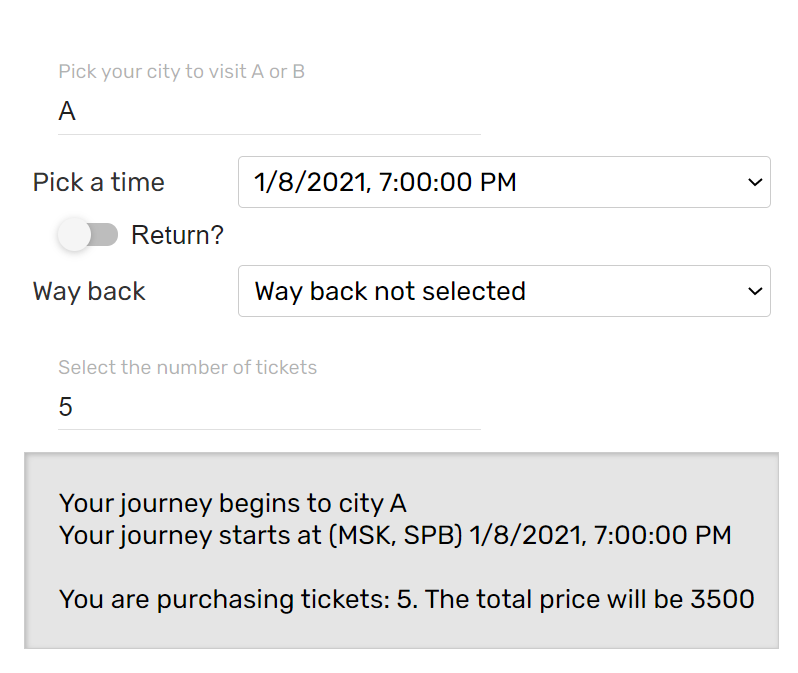
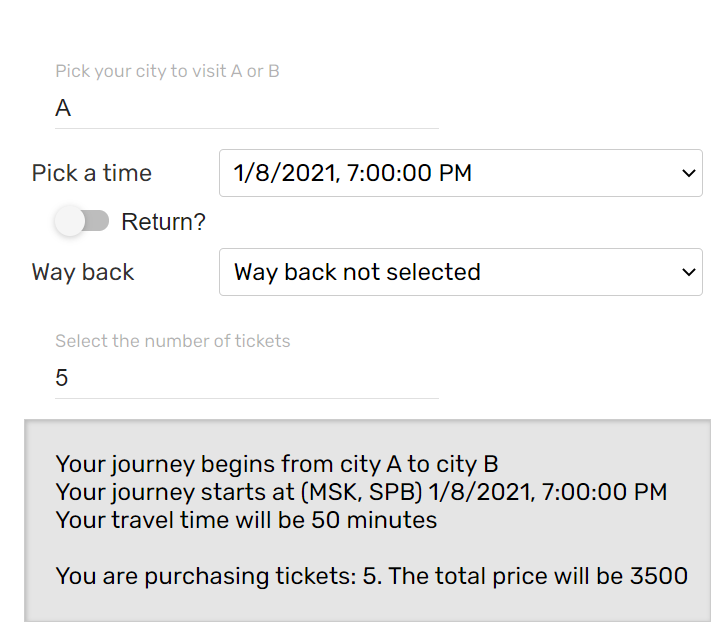
time filter fixed. readme added. time travel calculation

diff --git a/src/Components/Forms/NewForm.jsx b/src/Components/Forms/NewForm.jsx
@@ -1,6 +1,6 @@
 import React from 'react'
 import Styles from './Styles'
-import { Form, Field } from 'react-final-form'
+import {Form, Field} from 'react-final-form'
 import MuiThemeProvider from 'material-ui/styles/MuiThemeProvider'
 import getMuiTheme from 'material-ui/styles/getMuiTheme'
 import TextField from 'material-ui/TextField'
@@ -9,7 +9,7 @@ import Toggle from 'material-ui/Toggle'
 
 const NewForm = (props) => {
 
-    const TextFieldAdapter = ({ input, meta, ...rest }) => (
+    const TextFieldAdapter = ({input, meta, ...rest}) => (
         <TextField
             {...input}
             {...rest}
@@ -18,7 +18,7 @@ const NewForm = (props) => {
         />
     )
 
-    const ToggleAdapter = ({ input: { onChange, value }, label, ...rest }) => (
+    const ToggleAdapter = ({input: {onChange, value}, label, ...rest}) => (
         <Toggle
             label={label}
             toggled={!!value}
@@ -29,8 +29,7 @@ const NewForm = (props) => {
     const sleep = ms => new Promise(resolve => setTimeout(resolve, ms))
 
     const onSubmit = async values => {
-        await sleep(300)
-        window.alert(JSON.stringify(values, 0, 2))
+        alert("hi")
 
     }
 
@@ -48,9 +47,6 @@ const NewForm = (props) => {
         validators.reduce((error, validator) => error || validator(value), undefined)
 
 
-
-
-
     let updateCity = (value) => {
         props.updateCityToVisitAC(value)
     }
@@ -58,7 +54,6 @@ const NewForm = (props) => {
     let updateNumberOfTickets = (value) => {
         props.updateNumberOfTicketsAC(value)
     }
-
 
 
     let updateTime = (value) => {
@@ -78,11 +73,13 @@ const NewForm = (props) => {
             <Styles>
                 <Form
                     onSubmit={onSubmit}
-                    render={({ handleSubmit,
+                    render={({
+                                 handleSubmit,
                                  form,
                                  submitting,
                                  pristine,
-                                 values }) => (
+                                 values
+                             }) => (
                         <form onSubmit={handleSubmit}>
                             <div>
                                 <Field
@@ -102,7 +99,7 @@ const NewForm = (props) => {
                                 >
                                     {
 
-                                        props.getRoutesSuperSelector.map ( r =>
+                                        props.getRoutesSuperSelector.map(r =>
                                             <option
                                                 key={r}
                                                 value={r.toLocaleString()}>{r.toLocaleString()}
@@ -128,7 +125,7 @@ const NewForm = (props) => {
                                     validate={timeWayBack}
                                 >
                                     {
-                                        props.getWayBackSuperSelector.map ( r =>
+                                        props.getWayBackSuperSelector.map(r =>
                                             <option
                                                 key={r}
                                                 value={r.toLocaleString()}>{r.toLocaleString()}
@@ -146,10 +143,13 @@ const NewForm = (props) => {
                                     floatingLabelText="Select the number of tickets"
                                 />
                             </div>
+
                             <pre>
                                 {props.picketCitySuperSelector}
                                 <br/>
                                 {props.picketTimeSuperSelector}
+                                <br/>
+                                {props.getTimeToWayBackSuperSelector}
                                 <br/>
                                 {props.picketTimeWayBackSuperSelector}
                                 <br/>

diff --git a/src/Redux/Ticket-selector.js b/src/Redux/Ticket-selector.js
@@ -20,6 +20,29 @@ export const getRoutesSuperSelector = createSelector(
     }
 )
 
+export const getTimeToWayBackSuperSelector = createSelector(
+    getRoutesSelector,
+    (state) => {
+        if (state.TicketPage.datePicked.timeToVisit !== null && state.TicketPage.datePicked.timeToWayBack !== null) {
+            let visitTime = new Date(state.TicketPage.datePicked.timeToVisit)
+            let visitHours = visitTime.getHours()
+            let visitMinutes = visitTime.getMinutes()
+
+            let visitBackTime = new Date(state.TicketPage.datePicked.timeToWayBack)
+            let visitBackHours = visitBackTime.getHours()
+            let visitBackMinutes = visitBackTime.getMinutes()
+
+            return ("Your travel time will be " + (visitBackHours - visitHours) + " hours and " + (visitBackMinutes - visitMinutes) + " minutes")
+        }
+        if (state.TicketPage.datePicked.timeToVisit !== null ) {
+            return ("Your travel time will be 50 minutes" )
+        }
+    }
+)
+
+
+
+
 
 export const getWayBackSuperSelector = createSelector(
     getRoutesSelector,
@@ -29,12 +52,16 @@ export const getWayBackSuperSelector = createSelector(
         }
         if (state.TicketPage.datePicked.returnVisit === true) {
             if(state.TicketPage.datePicked.cityToVisit === "A"){
+                let newTimeToVisit = new Date(state.TicketPage.datePicked.timeToVisit)
+                newTimeToVisit.setMinutes(newTimeToVisit.getMinutes() + 50)
                 return state.TicketPage.travelRoutes.trace3.filter (t =>
-                    (t.toLocaleString() > state.TicketPage.datePicked.timeToVisit))
+                    (t > newTimeToVisit))
             }
             if(state.TicketPage.datePicked.cityToVisit === "B"){
+                let newTimeToVisit = new Date(state.TicketPage.datePicked.timeToVisit)
+                newTimeToVisit.setMinutes(newTimeToVisit.getMinutes() + 50)
                 return state.TicketPage.travelRoutes.trace2.filter (t =>
-                    (t.toLocaleString() > state.TicketPage.datePicked.timeToVisit))
+                    (t > newTimeToVisit))
             }
         }
     }
@@ -47,10 +74,10 @@ export const picketCitySuperSelector = createSelector(
             return ""
         }
         if (state.TicketPage.datePicked.cityToVisit === "A") {
-            return ("Your journey begins to city A")
+            return ("Your journey begins from city A to city B")
         }
         if (state.TicketPage.datePicked.cityToVisit === "B") {
-            return ("Your journey begins to city B")
+            return ("Your journey begins from city B to city A")
         }
 }
 )

diff --git a/src/Components/ShopContainer.jsx b/src/Components/ShopContainer.jsx
@@ -11,7 +11,7 @@ import Shop from "./Shop";
 import connect from "react-redux/lib/connect/connect";
 import "./../Style/style.css"
 import {
-    getRoutesSuperSelector,
+    getRoutesSuperSelector, getTimeToWayBackSuperSelector,
     getWayBackSuperSelector,
     picketCitySuperSelector, picketNumberOfTicketsSuperSelector,
     picketTimeSuperSelector,
@@ -23,7 +23,7 @@ import {
 class ShopContainer extends React.Component {
 
     componentDidMount() {
-        this.props.getAddress()
+        //this.props.getAddress()
     }
 
     render() {
@@ -41,6 +41,7 @@ class ShopContainer extends React.Component {
                 picketTimeSuperSelector={this.props.picketTimeSuperSelector}
                 picketTimeWayBackSuperSelector={this.props.picketTimeWayBackSuperSelector}
                 picketNumberOfTicketsSuperSelector={this.props.picketNumberOfTicketsSuperSelector}
+                getTimeToWayBackSuperSelector={this.props.getTimeToWayBackSuperSelector}
                 country={this.props.country}
                 city={this.props.city}
                 provider={this.props.provider}
@@ -69,7 +70,8 @@ let mapStateToProps = (state) => {
         picketCitySuperSelector: picketCitySuperSelector(state),
         picketTimeSuperSelector: picketTimeSuperSelector(state),
         picketTimeWayBackSuperSelector: picketTimeWayBackSuperSelector(state),
-        picketNumberOfTicketsSuperSelector: picketNumberOfTicketsSuperSelector(state)
+        picketNumberOfTicketsSuperSelector: picketNumberOfTicketsSuperSelector(state),
+        getTimeToWayBackSuperSelector: getTimeToWayBackSuperSelector(state)
     }
 }
 

diff --git a/src/Redux/Ticket-reducer.js b/src/Redux/Ticket-reducer.js
@@ -38,7 +38,6 @@ let initialState = {
             "Your route not selected"
         ],
         trace2: [
-            new Date("01.08.2021 18:10"),
             new Date("01.08.2021 18:30"),
             new Date("01.08.2021 19:00"),
             new Date("01.08.2021 19:10"),
@@ -47,7 +46,11 @@ let initialState = {
             new Date("01.08.2021 20:05"),
             new Date("01.08.2021 20:10"),
             new Date("01.08.2021 20:30"),
-            new Date("01.08.2021 20:50")
+            new Date("01.08.2021 20:50"),
+            new Date("01.08.2021 21:20"),
+            new Date("01.08.2021 22:20"),
+            new Date("01.08.2021 22:40"),
+            new Date("01.08.2021 23:50")
         ],
         trace3: [
             new Date("01.08.2021 18:05"),
@@ -58,7 +61,10 @@ let initialState = {
             new Date("01.08.2021 19:50"),
             new Date("01.08.2021 20:00"),
             new Date("01.08.2021 20:20"),
-            new Date("01.08.2021 20:50")
+            new Date("01.08.2021 21:20"),
+            new Date("01.08.2021 22:20"),
+            new Date("01.08.2021 22:40"),
+            new Date("01.08.2021 23:50")
         ],
         trace4: [
             "Way back not selected"

diff --git a/src/Components/Shop.jsx b/src/Components/Shop.jsx
@@ -22,6 +22,7 @@ const Shop = (props) => {
                     picketTimeSuperSelector={props.picketTimeSuperSelector}
                     picketTimeWayBackSuperSelector={props.picketTimeWayBackSuperSelector}
                     picketNumberOfTicketsSuperSelector={props.picketNumberOfTicketsSuperSelector}
+                    getTimeToWayBackSuperSelector={props.getTimeToWayBackSuperSelector}
                     time={props.time}
                     cityToVisit={props.cityToVisit}
                     timeToVisit={props.timeToVisit}

diff --git a/README.md b/README.md
@@ -42,22 +42,19 @@
 ![img.png](src/Style/IMG/cityBPicked.png)
 
 #### VIII. Переключатель: "Return?". Отмечается, если нужен обратный билет. Повлияет на конечную цену билета.
-#### IX. После активации переключателя, появляется возможность выбрать время обратного пути не позднее даты отправления.
+#### IX. Время в пути составляет 50 минут. После выбора потребности в обратном билете, будут предложены даты с лагом в 50 минут
 
 ![img.png](src/Style/IMG/wayBackPicked.png)
+![img.png](src/Style/IMG/wayBackPicked1.png)
 
 #### X. Поле "Select the number of tickets" - выбор количества билетов. Имеет валидацию; только положительные натуральные числа
 #### XI. На сером фоне представлен результат выбора пользователя. Конечная цена будет зависеть от количества выбранных билетов и обратного билета
 
 ![img.png](src/Style/IMG/price1.png)
+#### XI. Время в пути одинаково в обе стороны и составит 50 минут. Если был выбран обратный билет, то отобразится полное время в пути
 ![img.png](src/Style/IMG/priceWithWayBack.png)
 
-#### XII. В файле /src/Redux/Ticket-selector в селекторе "getWayBackSuperSelector" сравнивается дата отплытия из одного пункта и выбирается дата убытия из второго. Данные в формате new Date(), прибавляя время в пути(например, 50 минут) можно сделать выборку обратного рейса позднее выбранной даты на 50 минут.
-
-
-#### XIII. Время в пути: state.TicketPage.datePicked.timeToVisit + state.TicketPage.datePicked.timeToWayBack + 50 минут - время в пути
-
-#### XIV. Местное время: state.TicketPage.location.timezone - хранится время пользователя в его текущем регионе.
+![img.png](src/Style/IMG/wayBackPicked3.png)
 
 
 
